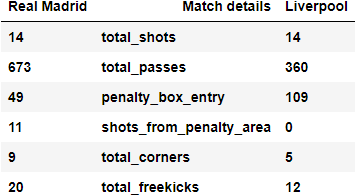
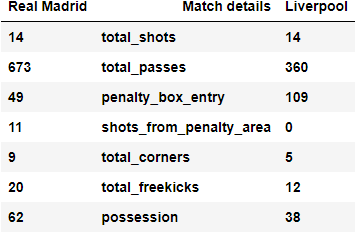
added possession to team_KPI

diff --git a/team_KPI.py b/team_KPI.py
@@ -35,7 +35,7 @@ df = json_normalize(data, sep = "_").assign(match_id = file_name[:-5])
 gdp_dict = {home_team_required : [],
                 'Match details': ['total_shots','total_passes','penalty_box_entry','shots_from_penalty_area','total_corners','total_freekicks'],
                 away_team_required: []}
-
+possession = []
 Liv_data =  df.loc[df['team_name'] == 'Liverpool'].set_index('id')
 real_data =  df.loc[df['team_name'] == 'Real Madrid'].set_index('id')
 
@@ -50,7 +50,7 @@ def RealteamKPI():
     actions_PB = 0
     total_corners = 0
     total_freekicks = 0
-    
+    duration = 0
     
     for i, events in new_df.iterrows():
          x = events['location'][0]
@@ -65,7 +65,9 @@ def RealteamKPI():
                 
     
     for i, events in real_data.iterrows():
-        
+        if (not pd.isna(events['duration'])):
+            duration+=events['duration']
+            
         if (events['type_name'] == "Shot"):
             total_shots = total_shots + 1
         elif (events['type_name'] == "Pass"):
@@ -74,10 +76,10 @@ def RealteamKPI():
                 total_corners = total_corners + 1
             if (events['pass_type_name'] == 'Free Kick'):
                 total_freekicks = total_freekicks + 1
+    
+    possession.append(duration)
             
-                
-            
-    gdp_dict[home_team_required].extend([total_shots,total_passes,penalty_box_entry,shots_from_penalty_area,total_corners,total_freekicks]) 
+    gdp_dict[home_team_required].extend([int(total_shots),total_passes,penalty_box_entry,shots_from_penalty_area,total_corners,total_freekicks]) 
     print("=================")
     print("Real Madrid Stats")
     print("Total Shots " + str(total_shots))
@@ -86,6 +88,7 @@ def RealteamKPI():
     print("Shots from penalty area " + str(shots_from_penalty_area))
     print("Total Corners " + str(total_corners))
     print("Total Free Kicks " + str(total_freekicks))
+    print("Total Free Kicks " + str(duration))
     print("=================")
 
 def LivteamKPI():
@@ -97,6 +100,7 @@ def LivteamKPI():
     actions_PB = 0
     total_corners = 0
     total_freekicks = 0
+    duration = 0
     
     for i, events in new_df.iterrows():
          x = events['location'][0]
@@ -108,6 +112,8 @@ def LivteamKPI():
                 shots_from_penalty_area = shots_from_penalty_area + 1
                 
     for i, events in Liv_data.iterrows():
+        if (not pd.isna(events['duration'])):
+            duration+=events['duration']
         if (events['type_name'] == "Shot"):
             total_shots = total_shots + 1
         elif (events['type_name'] == "Pass"):
@@ -116,7 +122,8 @@ def LivteamKPI():
                 total_corners = total_corners + 1
             if (events['pass_type_name'] == 'Free Kick'):
                 total_freekicks = total_freekicks + 1
-    gdp_dict[away_team_required].extend([total_shots,total_passes,penalty_box_entry,shots_from_penalty_area,total_corners,total_freekicks])
+    gdp_dict[away_team_required].extend([int(total_shots),total_passes,penalty_box_entry,shots_from_penalty_area,total_corners,total_freekicks])
+    possession.append(duration)
     print("=================")
     print("Liverpool Stats")
     print("Total Shots " + str(total_shots))
@@ -125,10 +132,17 @@ def LivteamKPI():
     print("Shots from penalty area " + str(shots_from_penalty_area))
     print("Total Corners " + str(total_corners))
     print("Total Free Kicks " + str(total_freekicks))
+    print("Total Free Kicks " + str(duration))
     print("=================")
 
 RealteamKPI()    
 LivteamKPI()
+totalPossession = sum(possession) 
+homePossession = int((possession[0]/totalPossession)*100)
+awayPossession = 100 - homePossession
+gdp_dict[away_team_required].append(awayPossession)
+gdp_dict[home_team_required].append(homePossession)
+gdp_dict['Match details'].append("possession")
 data = pd.DataFrame(gdp_dict)
 data = data. set_index([ home_team_required ,'Match details', away_team_required])
 dfi.export(data, 'dataframe.png')
